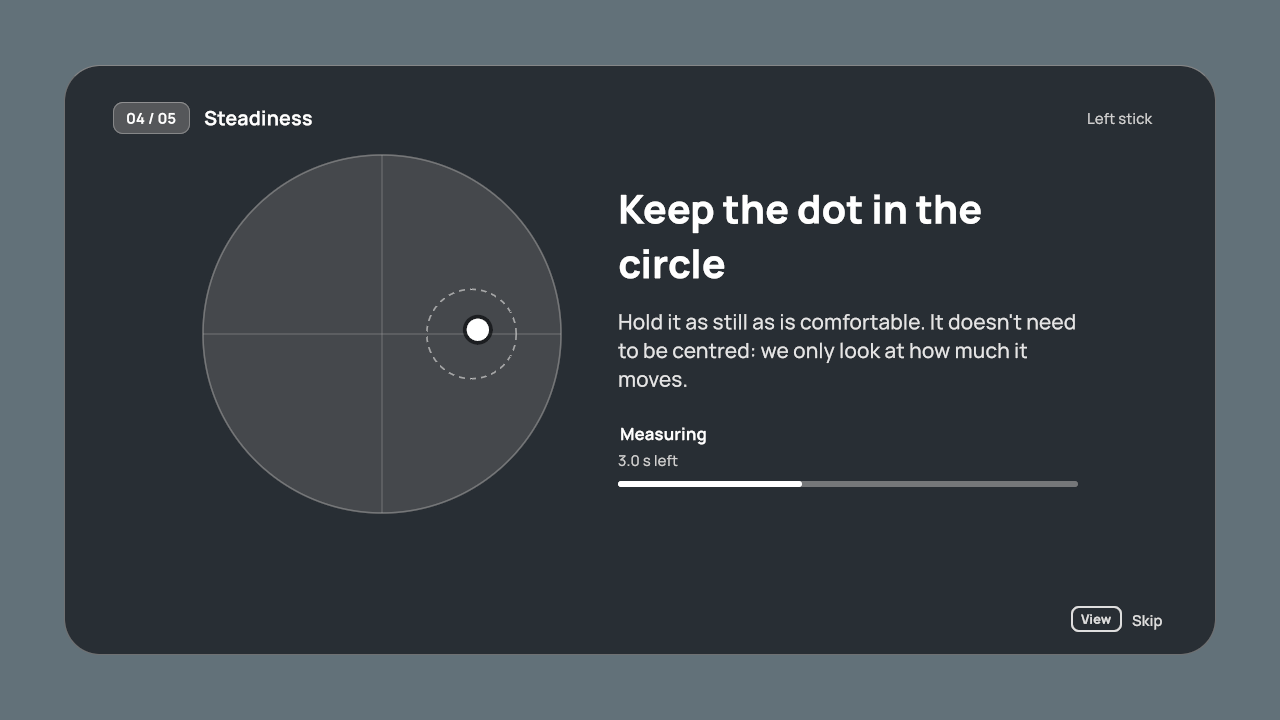
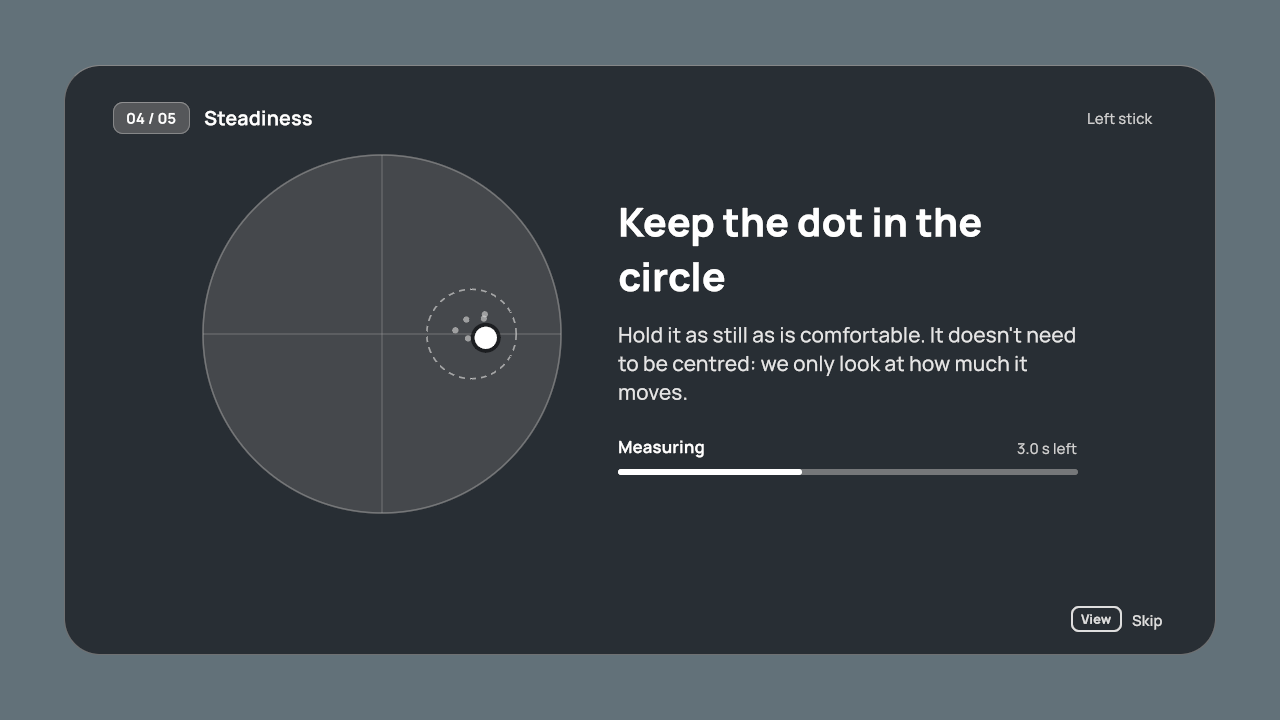
UI fixes: separate toggle and apply, Apply hugs its content, steadiness trail
- Suggestions screen: X / Square / Space turns the selected row on or off; A / Cross / Enter
  applies (on a button it presses that button). Space no longer confirms. The hint bar shows
  the toggle glyph (X, Square, Y on Switch, Space)
- "Apply N settings" hugs its content: 30 px left, 22 px right, 16 px between text and glyph
- Steadiness: trail of the last ~6 positions (6 px dots, white 30%), a new dot only after the
  cursor really moves; "Measuring" and "3.0 s left" on one line at opposite ends
- Tests: A on a row applies without toggling, X on a button does nothing, Space toggles and
  Enter applies, toggle glyph per family; render test checks the trail, the one-line
  measuring row, Apply's width and padding, and the hint glyph; screenshots refreshed

Changed region(s): [[0.4688, 0.275, 0.8438, 0.55], [0.4688, 0.5806, 0.8438, 0.7028], [0.3438, 0.4278, 0.4062, 0.4889]]

diff --git a/UnityProject/Packages/com.accesscalibrate/Runtime/Unity/CalibrationRunner.cs b/UnityProject/Packages/com.accesscalibrate/Runtime/Unity/CalibrationRunner.cs
@@ -79,10 +79,10 @@ namespace AccessCalibration
         readonly List<CalibrationTest> _tests = new List<CalibrationTest>();
         int _index;
         InputDeviceKind _preferred = InputDeviceKind.Gamepad;
-        InputAction _start, _skip, _up, _down, _submit;
+        InputAction _start, _skip, _up, _down, _submit, _toggle;
         bool _startRequested, _skipRequested;
         int _moveRequested;
-        bool _submitRequested;
+        bool _submitRequested, _toggleRequested;
         double _reviewShownAt, _welcomeShownAt;
 
         void Awake()
@@ -116,10 +116,14 @@ namespace AccessCalibration
             _up.performed += _ => { if (IsReviewing || IsWelcoming) _moveRequested = -1; };
             _down = CreateButtonAction("AccessCalibrate/Down", "<Gamepad>/dpad/down", "<Gamepad>/leftStick/down", "<Keyboard>/downArrow", "<Keyboard>/s");
             _down.performed += _ => { if (IsReviewing || IsWelcoming) _moveRequested = +1; };
-            _submit = CreateButtonAction("AccessCalibrate/Submit", "<Gamepad>/buttonSouth", "<Keyboard>/enter", "<Keyboard>/numpadEnter", "<Keyboard>/space");
+            // Confirm / apply (A, ✕, Enter) and, on the suggestions screen, a separate
+            // on/off for the selected row (X, □, Space) — one button, one job.
+            _submit = CreateButtonAction("AccessCalibrate/Submit", "<Gamepad>/buttonSouth", "<Keyboard>/enter", "<Keyboard>/numpadEnter");
             _submit.performed += _ => { if (IsReviewing || IsWelcoming) _submitRequested = true; };
+            _toggle = CreateButtonAction("AccessCalibrate/Toggle", "<Gamepad>/buttonWest", "<Keyboard>/space");
+            _toggle.performed += _ => { if (IsReviewing) _toggleRequested = true; };
 
-            foreach (var a in new[] { _start, _skip, _up, _down, _submit }) a.Enable();
+            foreach (var a in new[] { _start, _skip, _up, _down, _submit, _toggle }) a.Enable();
         }
 
         static InputAction CreateButtonAction(string name, params string[] paths)
@@ -132,8 +136,8 @@ namespace AccessCalibration
         void OnDisable()
         {
             AccessCalibrate.OnCalibrationRequested -= StartCalibration;
-            foreach (var a in new[] { _start, _skip, _up, _down, _submit }) a?.Dispose();
-            _start = _skip = _up = _down = _submit = null;
+            foreach (var a in new[] { _start, _skip, _up, _down, _submit, _toggle }) a?.Dispose();
+            _start = _skip = _up = _down = _submit = _toggle = null;
         }
 
         void EnsureView()
@@ -157,7 +161,7 @@ namespace AccessCalibration
             IsReviewing = false;
             IsCalibrating = true;
             _index = 0;
-            _startRequested = _skipRequested = _submitRequested = false;
+            _startRequested = _skipRequested = _submitRequested = _toggleRequested = false;
             _moveRequested = 0;
             ButtonAccess.Buttons = Buttons;
 
@@ -271,10 +275,11 @@ namespace AccessCalibration
             {
                 bool ready = Clock() - _reviewShownAt >= ConfirmationInputDelaySeconds;
                 if (ready && _moveRequested != 0) MoveSelection(_moveRequested);
+                if (ready && _toggleRequested) ToggleSelection();
                 if (ready && _submitRequested) ActivateSelection();
             }
             _moveRequested = 0;
-            _submitRequested = false;
+            _submitRequested = _toggleRequested = false;
         }
 
         void Update() => Tick();
@@ -308,7 +313,7 @@ namespace AccessCalibration
             IsReviewing = true;
             _reviewShownAt = Clock();
             _moveRequested = 0;
-            _submitRequested = false;
+            _submitRequested = _toggleRequested = false;
 
             // Study mode: log what was measured and proposed, before the player decides.
             if (StudyMode.Enabled) StudyMode.Record(measurements, LastResult.Profile);
@@ -328,14 +333,23 @@ namespace AccessCalibration
             View.SetConfirmationSelection(Selection);
         }
 
-        /// <summary>Press the selected row: toggle a proposal, or press Accept / Redo / Skip.</summary>
+        /// <summary>
+        /// Confirm (A / ✕ / Enter): on a button, press it; on a suggestion row, apply — switching
+        /// rows is <see cref="ToggleSelection"/>'s job.
+        /// </summary>
         public void ActivateSelection()
         {
             if (!IsReviewing) return;
-            if (Selection < Review.Items.Count) SetAccepted(Selection, !Review.Items[Selection].Accepted);
-            else if (Selection == AcceptIndex) Accept();
+            if (Selection < Review.Items.Count || Selection == AcceptIndex) Accept();
             else if (Selection == RedoIndex) Redo();
             else Skip();
+        }
+
+        /// <summary>Turn on / off (X / □ / Space): switch the selected row. Does nothing on a button.</summary>
+        public void ToggleSelection()
+        {
+            if (!IsReviewing || Selection >= Review.Items.Count) return;
+            SetAccepted(Selection, !Review.Items[Selection].Accepted);
         }
 
         /// <summary>Switch one proposal on or off (mouse / touch on the switch, or keyboard / gamepad).</summary>

diff --git a/UnityProject/Packages/com.accesscalibrate/Tests/PlayMode/ConfirmationTests.cs b/UnityProject/Packages/com.accesscalibrate/Tests/PlayMode/ConfirmationTests.cs
@@ -94,11 +94,11 @@ namespace AccessCalibration.PlayModeTests
             int steps = _runner.AcceptIndex - IndexOf("holdToToggle");
             for (int i = 0; i < steps; i++) PressAndTick(_gamepad.dpad.up);
             Assert.AreEqual(IndexOf("holdToToggle"), _runner.Selection);
-            PressAndTick(_gamepad.buttonSouth);
+            PressAndTick(_gamepad.buttonWest);                       // X: turn the row on
             Assert.IsTrue(_runner.Review.Items[IndexOf("holdToToggle")].Accepted);
 
             for (int i = 0; i < steps; i++) PressAndTick(_gamepad.dpad.down);
-            PressAndTick(_gamepad.buttonSouth);
+            PressAndTick(_gamepad.buttonSouth);                      // A: apply
 
             Assert.IsTrue(AccessCalibrate.Profile.holdToToggle);
             Assert.AreEqual(1.5f, AccessCalibrate.Profile.timingMultiplier);
@@ -111,12 +111,51 @@ namespace AccessCalibration.PlayModeTests
             Now += _runner.ConfirmationInputDelaySeconds;
             int steps = _runner.AcceptIndex - IndexOf("timingMultiplier");
             for (int i = 0; i < steps; i++) PressAndTick(Keyboard.upArrowKey);
-            PressAndTick(Keyboard.enterKey);                      // switch timing off
+            PressAndTick(Keyboard.spaceKey);                      // Space: switch timing off
             for (int i = 0; i < steps; i++) PressAndTick(Keyboard.downArrowKey);
             PressAndTick(Keyboard.enterKey);                      // Accept
 
             Assert.AreEqual(1f, AccessCalibrate.Profile.timingMultiplier);
             Assert.IsTrue(AccessCalibrate.HasSavedProfile);
+        }
+
+        [Test]
+        public void ConfirmOnARow_Applies_ItDoesNotToggleTheRow()
+        {
+            _runner.ShowProposal(Sample());
+            Now += _runner.ConfirmationInputDelaySeconds;
+            PressAndTick(_gamepad.dpad.up);                     // onto the last row (hold, uncertain, off)
+            Assert.Less(_runner.Selection, _runner.AcceptIndex);
+            PressAndTick(_gamepad.buttonSouth);                 // A on a row = Apply
+
+            Assert.IsFalse(_runner.IsReviewing);
+            Assert.IsFalse(AccessCalibrate.Profile.holdToToggle, "A must not switch the row on");
+            Assert.AreEqual(1.5f, AccessCalibrate.Profile.timingMultiplier);
+        }
+
+        [Test]
+        public void ToggleOnAButton_DoesNothing()
+        {
+            _runner.ShowProposal(Sample());
+            Now += _runner.ConfirmationInputDelaySeconds;
+            Assert.AreEqual(_runner.AcceptIndex, _runner.Selection);
+            PressAndTick(_gamepad.buttonWest);                  // X on "Apply"
+            Assert.IsTrue(_runner.IsReviewing);
+            Assert.IsTrue(_runner.Review.Items[IndexOf("timingMultiplier")].Accepted);
+            Assert.IsFalse(_runner.Review.Items[IndexOf("holdToToggle")].Accepted);
+        }
+
+        [Test]
+        public void SpaceToggles_EnterApplies()
+        {
+            _runner.ShowProposal(Sample());
+            Now += _runner.ConfirmationInputDelaySeconds;
+            PressAndTick(Keyboard.upArrowKey);                  // hold row
+            PressAndTick(Keyboard.spaceKey);                    // on
+            Assert.IsTrue(_runner.IsReviewing, "Space must not apply");
+            Assert.IsTrue(_runner.Review.Items[IndexOf("holdToToggle")].Accepted);
+            PressAndTick(Keyboard.enterKey);                    // apply from the row
+            Assert.IsTrue(AccessCalibrate.Profile.holdToToggle);
         }
 
         [Test]

diff --git a/UnityProject/Packages/com.accesscalibrate/Tests/PlayMode/BuiltInViewTests.cs b/UnityProject/Packages/com.accesscalibrate/Tests/PlayMode/BuiltInViewTests.cs
@@ -141,13 +141,18 @@ namespace AccessCalibration.PlayModeTests
             var target = _runner.Stability.StickTarget;
             for (int f = 0; f < 26; f++)
             {
-                Set(_pad.leftStick, target + new Vector2(Mathf.Sin(f * 1.3f) * 0.04f, Mathf.Cos(f * 0.9f) * 0.03f + 0.05f));
+                Set(_pad.leftStick, target + new Vector2(Mathf.Sin(f * 1.3f) * 0.09f, Mathf.Cos(f * 0.9f) * 0.07f + 0.04f));
                 yield return null;
                 _now += 0.1;
                 _runner.Stability.Tick(_now);
             }
             Assert.AreEqual(StabilityTest.Phase.Measuring, _runner.Stability.CurrentPhase);
+            Assert.GreaterOrEqual(_view.StabilityTrailCount, 5, "trail of the last ~6 positions");
+            var measuring = Q("ac-stability-measuring");
+            var left = Q("ac-stability-left");
             yield return Snapshot("5-steadiness");
+            Assert.AreEqual(measuring.worldBound.center.y, left.worldBound.center.y, 4f, "\"Measuring\" and \"s left\" on one line");
+            Assert.Greater(left.worldBound.xMin, measuring.worldBound.xMax, "at opposite ends");
 
             // 6. Suggested settings: two reliable proposals, one uncertain (starts off)
             _runner.SkipCurrent();
@@ -162,9 +167,15 @@ namespace AccessCalibration.PlayModeTests
                 },
             });
             Assert.AreEqual("Apply 2 settings", _view.Root.Q<Label>("ac-apply-label").text);
+            var hintText = _view.Root.Q("ac-hints").Q<Label>(className: "ac-glyph-text");
+            Assert.AreEqual("X", hintText.text, "on/off hint uses the toggle button");
             Assert.AreEqual(1, _view.Root.Query(className: "ac-row--uncertain").ToList().Count);
             Assert.AreEqual(1, _view.Root.Query<DashedOutline>().ToList().Count);
             yield return Snapshot("6-confirmation");
+            var apply = _view.Root.Q<Button>("ac-apply");
+            var applyLabel = _view.Root.Q<Label>("ac-apply-label");
+            Assert.Less(apply.layout.width, 0.45f * _view.Root.Q("ac-panel").layout.width, "Apply hugs its content");
+            Assert.AreEqual(30f, applyLabel.worldBound.xMin - apply.worldBound.xMin, 6f, "30 px left padding (+ border)");
 
             // Themes switch live, without rebuilding the screen
             AccessCalibrate.UseTheme(ThemePreset.GlassLight);

diff --git a/UnityProject/Packages/com.accesscalibrate/Runtime/Unity/UI/DrawnElements.cs b/UnityProject/Packages/com.accesscalibrate/Runtime/Unity/UI/DrawnElements.cs
@@ -154,15 +154,30 @@ namespace AccessCalibration.UI
         public StabilityArena() : base("ac-arena", "--ac-arena-fill-c", "--ac-arena-border-c", "--ac-crosshair-c",
                                        "--ac-target-c", "--ac-cursor-c", "--ac-cursor-halo-c", "--ac-trail-c") { }
 
+        /// <summary>A new trail dot only after the cursor really moved (arena units), so dots don't pile up under it.</summary>
+        public float TrailSpacing = 0.02f;
+        Vector2 _lastTrailPoint = new Vector2(float.NaN, float.NaN);
+
+        public int TrailCount => _trail.Count;
+
         public void SetCursor(Vector2 position)
         {
-            _trail.Enqueue(Cursor);
-            while (_trail.Count > TrailLength) _trail.Dequeue();
+            if (float.IsNaN(_lastTrailPoint.x) || Vector2.Distance(_lastTrailPoint, Cursor) >= TrailSpacing)
+            {
+                _trail.Enqueue(Cursor);
+                _lastTrailPoint = Cursor;
+                while (_trail.Count > TrailLength) _trail.Dequeue();
+            }
             Cursor = position;
             MarkDirtyRepaint();
         }
 
-        public void ClearTrail() { _trail.Clear(); MarkDirtyRepaint(); }
+        public void ClearTrail()
+        {
+            _trail.Clear();
+            _lastTrailPoint = new Vector2(float.NaN, float.NaN);
+            MarkDirtyRepaint();
+        }
 
         Vector2 ToPx(Vector2 a, Rect r, float R) => r.center + new Vector2(a.x, -a.y) * R;
 

diff --git a/UnityProject/Packages/com.accesscalibrate/Runtime/Unity/UI/InputGlyphs.cs b/UnityProject/Packages/com.accesscalibrate/Runtime/Unity/UI/InputGlyphs.cs
@@ -35,6 +35,8 @@ namespace AccessCalibration.UI
         AnyButton,
         /// <summary>D-pad / arrow keys up-down.</summary>
         Move,
+        /// <summary>Turn the selected row on / off: gamepad west button / Space (runner toggle).</summary>
+        Toggle,
     }
 
     /// <summary>
@@ -74,6 +76,14 @@ namespace AccessCalibration.UI
                         case GlyphFamily.Nintendo: return new Glyph("−");
                         case GlyphFamily.Xbox: return new Glyph("View", isKey: true);
                         default: return new Glyph("Esc", isKey: true);
+                    }
+                case PromptAction.Toggle:
+                    switch (family)
+                    {
+                        case GlyphFamily.PlayStation: return new Glyph("", shape: GlyphShape.Square);
+                        case GlyphFamily.Nintendo: return new Glyph("Y");   // west on a Switch pad
+                        case GlyphFamily.Xbox: return new Glyph("X");
+                        default: return new Glyph("Space", isKey: true);
                     }
                 default: // Move
                     return family == GlyphFamily.Keyboard ? new Glyph("↑ ↓", isKey: true) : new Glyph("D-pad ↑↓", isKey: true);

diff --git a/UnityProject/Packages/com.accesscalibrate/Runtime/Unity/UIToolkitCalibrationView.cs b/UnityProject/Packages/com.accesscalibrate/Runtime/Unity/UIToolkitCalibrationView.cs
@@ -64,6 +64,7 @@ namespace AccessCalibration
         /// <summary>The panel this view draws into (e.g. to render it into a texture).</summary>
         public PanelSettings Panel => _doc != null ? _doc.panelSettings : null;
         internal VisualElement Root => _root;
+        internal int StabilityTrailCount => _arena.TrailCount;
         /// <summary>The glyph family on screen (follows the last device that pressed a button).</summary>
         public GlyphFamily GlyphFamily => _glyphs?.Family ?? GlyphFamily.Keyboard;
 
@@ -495,7 +496,8 @@ namespace AccessCalibration
             _selectable.Add(_redo);
             _selectable.Add(_skipAll);
             RefreshConfirmation();
-            SetHints((PromptAction.Confirm, CalibrationTexts.ToggleHint, null));
+            // Apply already shows its own confirm glyph on the button, so the bar only shows on/off.
+            SetHints((PromptAction.Toggle, CalibrationTexts.ToggleHint, null));
         }
 
         public void SetConfirmationSelection(int index)

diff --git a/UnityProject/Packages/com.accesscalibrate/Tests/PlayMode/GlyphFamilyTests.cs b/UnityProject/Packages/com.accesscalibrate/Tests/PlayMode/GlyphFamilyTests.cs
@@ -34,6 +34,17 @@ namespace AccessCalibration.PlayModeTests
         }
 
         [Test]
+        public void ToggleGlyph_IsTheWestButton_OrSpace()
+        {
+            Assert.AreEqual("X", InputGlyphs.For(GlyphFamily.Xbox, PromptAction.Toggle).Text);
+            Assert.AreEqual(GlyphShape.Square, InputGlyphs.For(GlyphFamily.PlayStation, PromptAction.Toggle).Shape);
+            Assert.AreEqual("Y", InputGlyphs.For(GlyphFamily.Nintendo, PromptAction.Toggle).Text);   // west on Switch
+            var key = InputGlyphs.For(GlyphFamily.Keyboard, PromptAction.Toggle);
+            Assert.AreEqual("Space", key.Text);
+            Assert.IsTrue(key.IsKey);
+        }
+
+        [Test]
         public void ButtonPress_SwitchesTheFamily()
         {
             var keyboard = InputSystem.AddDevice<Keyboard>();

diff --git a/README.md b/README.md
@@ -107,7 +107,7 @@ Docs/                DESIGN_SPEC.md, screenshots
 | Suite | Tests | What it covers |
 |---|---|---|
 | EditMode | 102 | signal processing, every rule and its edges, profile JSON, profile store (atomic writes, corrupt files), API, study CSV (culture, quoting), theme contrast ≥ 4.5:1 for all presets, no literal colours in the USS |
-| PlayMode | 65 | each check with simulated keyboard / gamepad input, buttons held over from the intro, runner, welcome and confirmation flows, glyph families, rendering of every screen, the demo level (including a jump with simulated input) |
+| PlayMode | 69 | each check with simulated keyboard / gamepad input, buttons held over from the intro, runner, welcome and confirmation flows, glyph families, rendering of every screen, the demo level (including a jump with simulated input) |
 | Python | 5 | loading, grouping and medians in `tools/plot_study.py` |
 
 A few checks were also confirmed by **breaking the code on purpose**, to make sure the tests notice:
